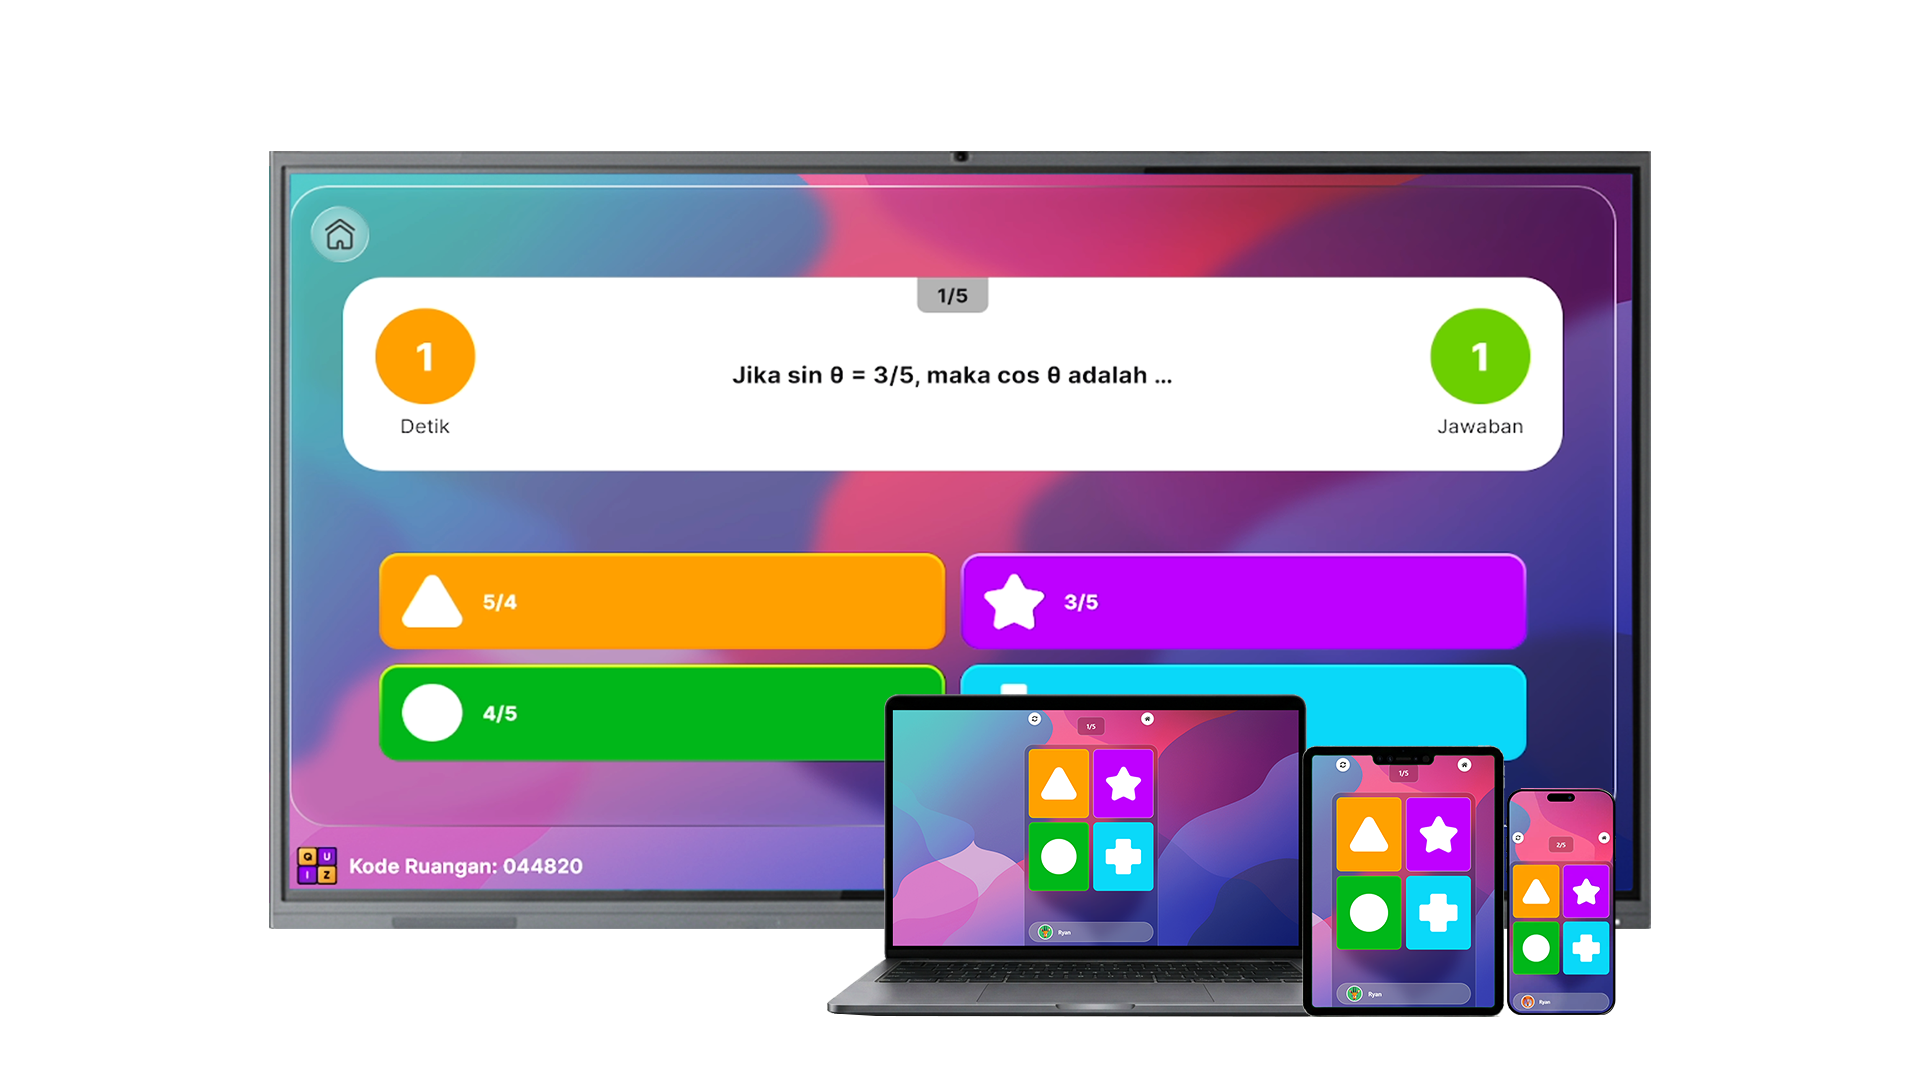
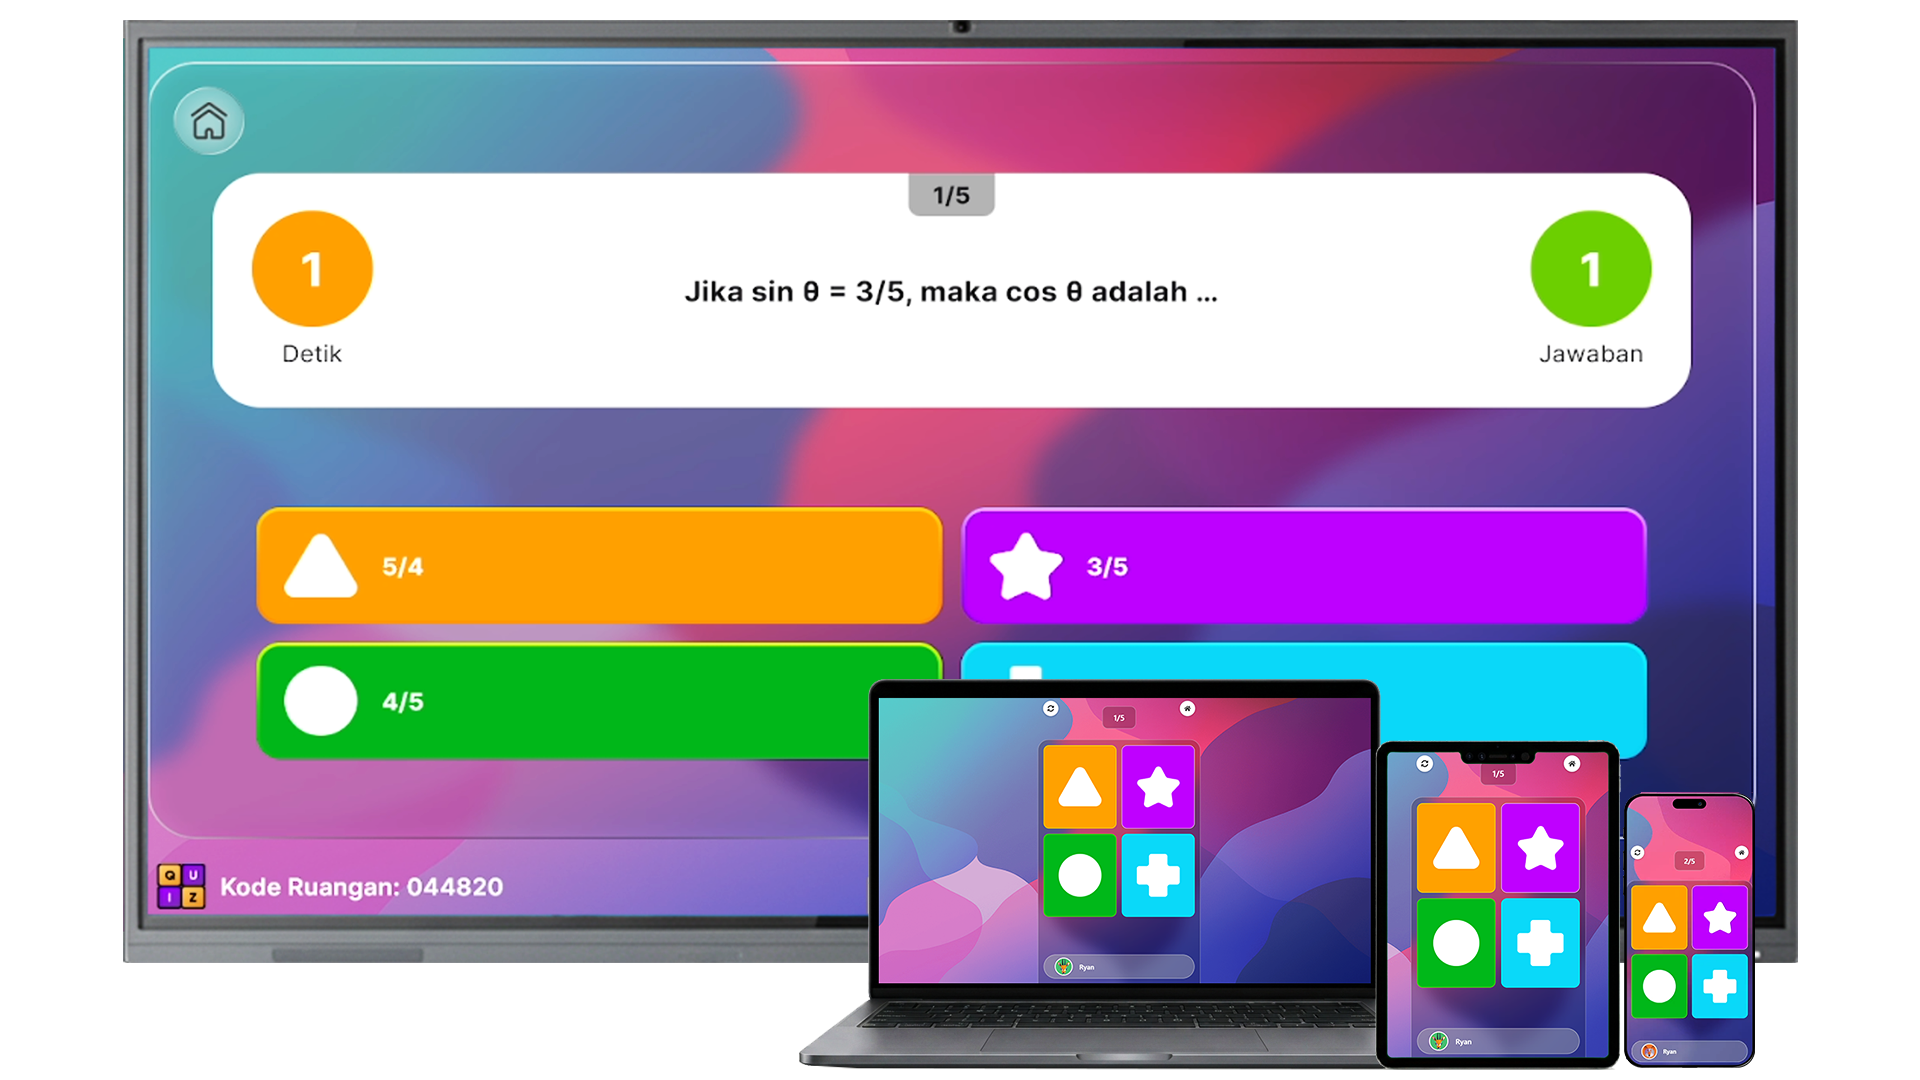
Update Button Quiz

diff --git a/index.html b/index.html
@@ -1566,24 +1566,33 @@
     position: relative;
     aspect-ratio: 4/3;
     border-radius: 24px;
-    overflow: hidden;
-    box-shadow: 0 50px 100px rgba(200, 15, 46, 0.35), 0 20px 60px rgba(0,0,0,0.5);
+    overflow: visible;
+    /* box-shadow: 0 50px 100px rgba(200, 15, 46, 0.35), 0 20px 60px rgba(0,0,0,0.5); */
     transform-style: preserve-3d;
     perspective: 1500px;
   }
   .quiz-mockup img {
-    width: 100%; height: 100%;
-    object-fit: cover;
+    position: absolute;
+    left: 0; top: 0;
+    opacity: 0;
+    width: 100%; 
+    height: 100%;
+    object-fit: contain;
     transform: scale(var(--quiz-img-scale, 1.04));
-    transition: transform .8s var(--ease-cinematic);
-    will-change: transform;
+    transition: all .8s var(--ease-cinematic);
+    will-change: transform, display;
   }
   .quiz-mockup::after {
     content: '';
     position: absolute;
     inset: 0;
-    background: linear-gradient(135deg, transparent 60%, rgba(200,15,46,0.15) 100%);
+    /* background: linear-gradient(135deg, transparent 60%, rgba(200,15,46,0.15) 100%); */
     pointer-events: none;
+  }
+
+  .quiz-mockup img.active {
+    
+    opacity: 1;
   }
 
   /* Floating answer badges that "answer" the quiz */
@@ -1613,7 +1622,7 @@
     animation-delay: 0s;
   }
   .quiz-badge.b2 {
-    bottom: -16px; right: -20px;
+    bottom: 90px; left: -20px;
     animation-delay: 1.5s;
     background: var(--red);
     color: var(--white);
@@ -1674,7 +1683,33 @@
     border-color: rgba(200,15,46,0.3);
     transform: translateX(6px);
   }
-
+.button-quiz {
+  display: flex;
+  justify-content: space-evenly;
+  align-items: center;
+  background: linear-gradient(180deg, rgb(59, 4, 4) 20%,#1a0508);
+  width: 100%; 
+  height: 60px;
+  margin-top: 20px;
+  border-radius: 25px;
+  border-width: 2px;
+  border-style: solid;
+  border-color: #353535;
+  overflow: hidden;
+}
+.quiz-option{
+  transition: 0.5s;
+  display: flex;
+  justify-content: center;
+  align-items: center;
+  cursor: pointer;
+  height: 100%;
+  width: 100%;
+}
+.quiz-option:hover {
+  transition: 0.5s;
+  background-color: #a00d24;
+}
   /* Icon pops in slightly after the card lands */
   .quiz-feature-icon {
     width: 44px; height: 44px;
@@ -3261,8 +3296,13 @@
     <div class="quiz-showcase">
       <!-- Mockup with floating badges -->
       <div class="quiz-mockup">
-        <img src="assets/NusaSuites- Screenshot/NusaQuiz/alldevice.png" alt="Tampilan NusaQuiz di papan interaktif" />
-        <div class="quiz-badge b1">
+        <div style="position: relative; height: 320px;">
+          <img class="active" id="image-quiz-1" src="assets/NusaSuites- Screenshot/NusaQuiz/alldevice.png" alt="Tampilan NusaQuiz di papan interaktif" />
+          <img id="image-quiz-2" src="assets/NusaSuites- Screenshot/NusaAnatomy/Jantung.png" alt="Tampilan NusaQuiz di papan interaktif" />
+          <img id="image-quiz-3" src="assets/NusaSuites- Screenshot/NusaAnatomy/Kulit.png" alt="Tampilan NusaQuiz di papan interaktif" />
+          <img id="image-quiz-4" src="assets/NusaSuites- Screenshot/NusaAnatomy/Main Menu.png" alt="Tampilan NusaQuiz di papan interaktif" />
+        </div>
+        <!-- <div class="quiz-badge b1">
           <span class="quiz-badge-emoji">
             <svg width="14" height="14" viewBox="0 0 24 24" fill="none" stroke="currentColor" stroke-width="3" stroke-linecap="round" stroke-linejoin="round"><polyline points="20 6 9 17 4 12"/></svg>
           </span>
@@ -3279,6 +3319,12 @@
             <svg width="14" height="14" viewBox="0 0 24 24" fill="none" stroke="currentColor" stroke-width="2.5" stroke-linecap="round" stroke-linejoin="round"><polygon points="12 2 15.09 8.26 22 9.27 17 14.14 18.18 21.02 12 17.77 5.82 21.02 7 14.14 2 9.27 8.91 8.26 12 2"/></svg>
           </span>
           +100 Skor
+        </div> -->
+        <div class="button-quiz">
+          <div id="quiz-option-1" class="quiz-option">Cepat</div>
+          <div id="quiz-option-2" class="quiz-option">Pilgan</div>
+          <div id="quiz-option-3" class="quiz-option">Poin</div>
+          <div id="quiz-option-4" class="quiz-option">Misteri</div>
         </div>
       </div>
 
@@ -3637,6 +3683,37 @@
 </footer>
 
 <script>
+  document.querySelector("#quiz-option-1").addEventListener("click", () => {
+    document.querySelector("#image-quiz-1").classList.add("active");
+    
+    document.querySelector("#image-quiz-2").classList.remove("active");
+    document.querySelector("#image-quiz-3").classList.remove("active");
+    document.querySelector("#image-quiz-4").classList.remove("active");
+  });
+  document.querySelector("#quiz-option-2").addEventListener("click", () => {
+    document.querySelector("#image-quiz-2").classList.add("active");
+    
+    document.querySelector("#image-quiz-1").classList.remove("active");
+    document.querySelector("#image-quiz-3").classList.remove("active");
+    document.querySelector("#image-quiz-4").classList.remove("active");
+  });
+  document.querySelector("#quiz-option-3").addEventListener("click", () => {
+    document.querySelector("#image-quiz-3").classList.add("active");
+    
+    document.querySelector("#image-quiz-2").classList.remove("active");
+    document.querySelector("#image-quiz-1").classList.remove("active");
+    document.querySelector("#image-quiz-4").classList.remove("active");
+  });
+  document.querySelector("#quiz-option-4").addEventListener("click", () => {
+    document.querySelector("#image-quiz-4").classList.add("active");
+    
+    document.querySelector("#image-quiz-2").classList.remove("active");
+    document.querySelector("#image-quiz-3").classList.remove("active");
+    document.querySelector("#image-quiz-1").classList.remove("active");
+  });
+
+
+
   /* === Reveal-on-scroll === */
   const io = new IntersectionObserver((entries) => {
     entries.forEach(e => {
@@ -4112,7 +4189,6 @@
     }, { threshold: 0.2 });
     io.observe(list);
   })();
-
 
 </script>
 